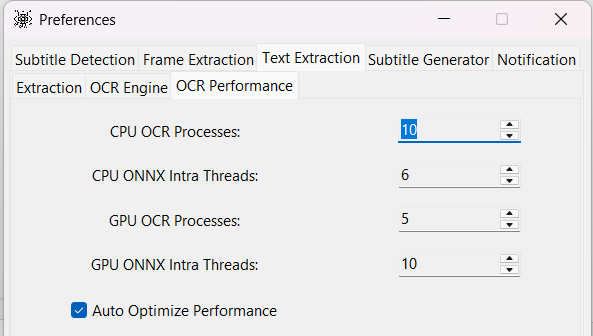
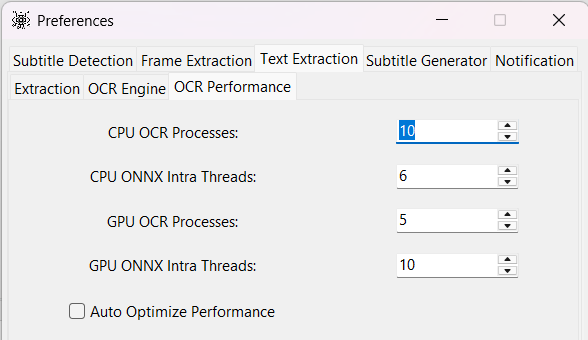
state for ocr auto perf widgets set

diff --git a/gui.py b/gui.py
@@ -955,8 +955,8 @@ class PreferencesUI(tk.Toplevel):
         cancel_button = ttk.Button(button_frame, text="Cancel", command=self.destroy)
         cancel_button.grid(column=2, row=0, padx=4, pady=4)
 
-        # Set the reset button when layout is created.
-        self._set_reset_button()
+        self._set_reset_button()  # Set the reset button when layout is created.
+        self._set_ocr_perf_state()
 
     def make_pref_var(self, var):
         """
@@ -1206,50 +1206,66 @@ class PreferencesUI(tk.Toplevel):
 
         ttk.Label(model_performance_frame, text="CPU OCR Processes:").grid(column=0, row=0, pady=self.wgt_y_padding)
         self.cpu_ocr_processes = self.make_pref_var(utils.CONFIG.cpu_ocr_processes)
-        ttk.Spinbox(
+        self.cpu_ocr_processes_sb = ttk.Spinbox(
             model_performance_frame,
             from_=1, to=cpu_count(),
             textvariable=self.cpu_ocr_processes,
             state="readonly",
             width=self.spinbox_size
-        ).grid(column=1, row=0)
+        )
+        self.cpu_ocr_processes_sb.grid(column=1, row=0)
 
         ttk.Label(model_performance_frame, text="CPU ONNX Intra Threads:").grid(column=0, row=1)
         self.cpu_onnx_intra_threads = self.make_pref_var(utils.CONFIG.cpu_onnx_intra_threads)
-        ttk.Spinbox(
+        self.cpu_onnx_intra_threads_sb = ttk.Spinbox(
             model_performance_frame,
             from_=1, to=cpu_count(),
             textvariable=self.cpu_onnx_intra_threads,
             state="readonly",
             width=self.spinbox_size
-        ).grid(column=1, row=1)
+        )
+        self.cpu_onnx_intra_threads_sb.grid(column=1, row=1)
 
         ttk.Label(model_performance_frame, text="GPU OCR Processes:").grid(column=0, row=2, pady=self.wgt_y_padding)
         self.gpu_ocr_processes = self.make_pref_var(utils.CONFIG.gpu_ocr_processes)
-        ttk.Spinbox(
+        self.gpu_ocr_processes_sb = ttk.Spinbox(
             model_performance_frame,
             from_=1, to=cpu_count(),
             textvariable=self.gpu_ocr_processes,
             state="readonly",
             width=self.spinbox_size
-        ).grid(column=1, row=2)
+        )
+        self.gpu_ocr_processes_sb.grid(column=1, row=2)
 
         ttk.Label(model_performance_frame, text="GPU ONNX Intra Threads:").grid(column=0, row=3)
         self.gpu_onnx_intra_threads = self.make_pref_var(utils.CONFIG.gpu_onnx_intra_threads)
-        ttk.Spinbox(
+        self.gpu_onnx_intra_threads_sb = ttk.Spinbox(
             model_performance_frame,
             from_=1, to=cpu_count(),
             textvariable=self.gpu_onnx_intra_threads,
             state="readonly",
             width=self.spinbox_size
-        ).grid(column=1, row=3)
+        )
+        self.gpu_onnx_intra_threads_sb.grid(column=1, row=3)
 
         self.auto_optimize_perf = self.make_pref_var(utils.CONFIG.auto_optimize_perf)
+        self.auto_optimize_perf.trace_add("write", self._set_ocr_perf_state)
         ttk.Checkbutton(
             model_performance_frame,
             text='Auto Optimize Performance',
             variable=self.auto_optimize_perf
         ).grid(column=0, row=4, pady=self.wgt_y_padding)
+
+    def _set_ocr_perf_state(self, *args) -> None:
+        """
+        Set the state of other performance variables widgets.
+        """
+        logger.debug(f"_set_ocr_perf_state: {args}")
+        key_name, ocr_perf_keys = "auto_optimize_perf", list(utils.CONFIG.config_schema["OCR Performance"])
+        ocr_perf_keys.remove(key_name)
+        state = "disabled" if getattr(self, key_name).get() else "normal"
+        for key in ocr_perf_keys:
+            getattr(self, f"{key}_sb").configure(state=state)
 
     def _subtitle_generator_tab(self) -> None:
         """
